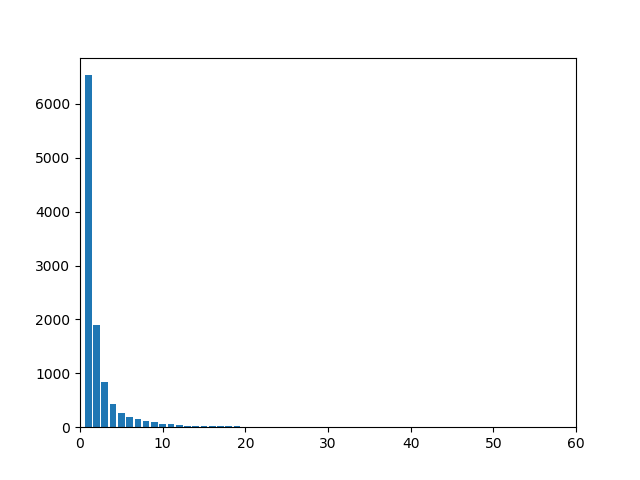
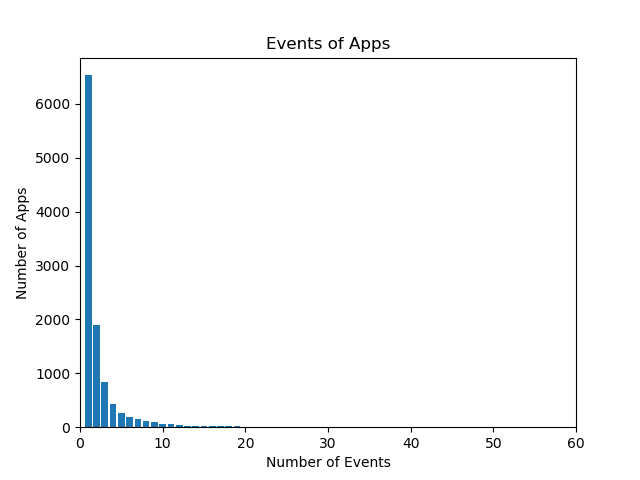
data info analysis

Changed region(s): [[0.4062, 0.0625, 0.5938, 0.125], [0.4062, 0.9375, 0.625, 0.9688], [0.0312, 0.4062, 0.0625, 0.625]]

diff --git a/analysis/data_info.py b/analysis/data_info.py
@@ -65,6 +65,9 @@ x = range(len(chart_data))
 y = chart_data
 plt.xlim(0, max_i)
 plt.bar(x, y)
+plt.title("Events of Apps")
+plt.xlabel("Number of Events")
+plt.ylabel("Number of Apps")
 plt.savefig('Event_Number.png')
 
 sum = 0
@@ -88,6 +91,9 @@ x = range(len(chart_data))
 y = chart_data
 plt.xlim(0, max_i)
 plt.bar(x, y)
+plt.title("Sessions of Apps")
+plt.xlabel("Number of Sessions")
+plt.ylabel("Number of Apps")
 plt.savefig('Session_Number.png')
 
 sum = 0
@@ -118,6 +124,9 @@ x = range(len(chart_data))
 y = chart_data
 plt.xlim(0, max_i)
 plt.bar(x, y)
+plt.title("Events of Sessions")
+plt.xlabel("Number of Events")
+plt.ylabel("Number of Sessions")
 plt.savefig('Session_Event_Number.png')
 
 sum = 0
